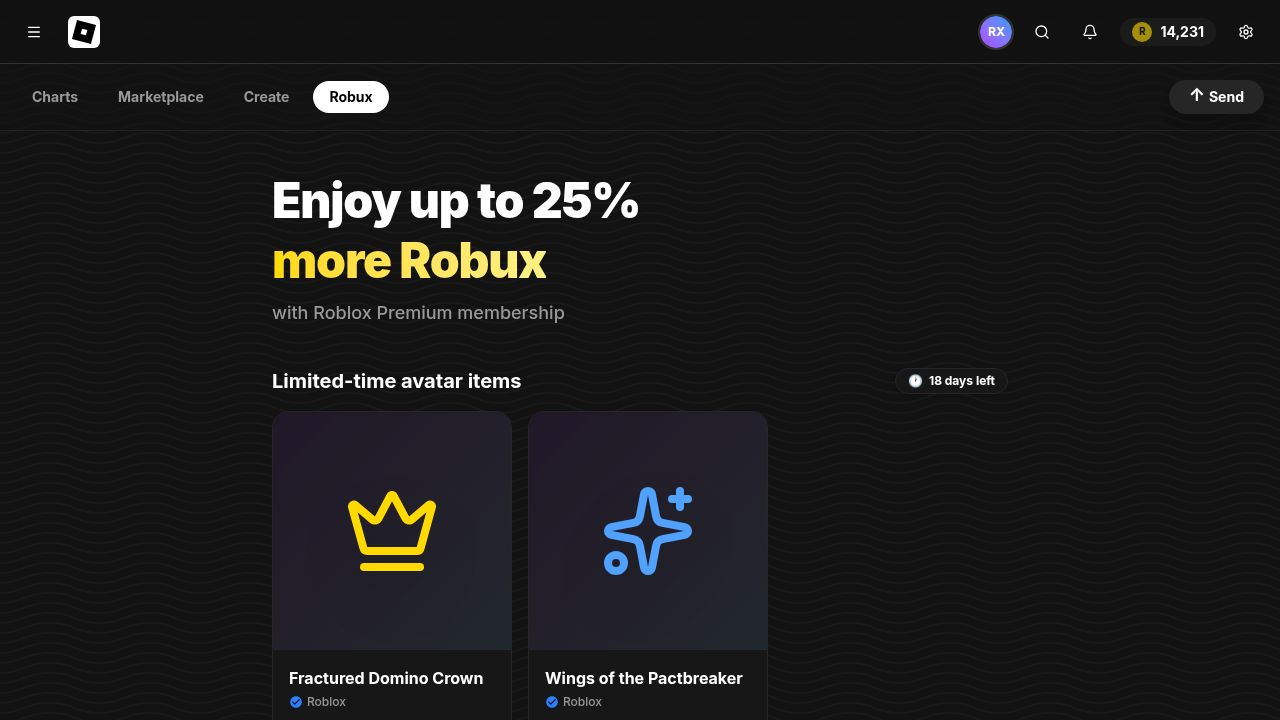
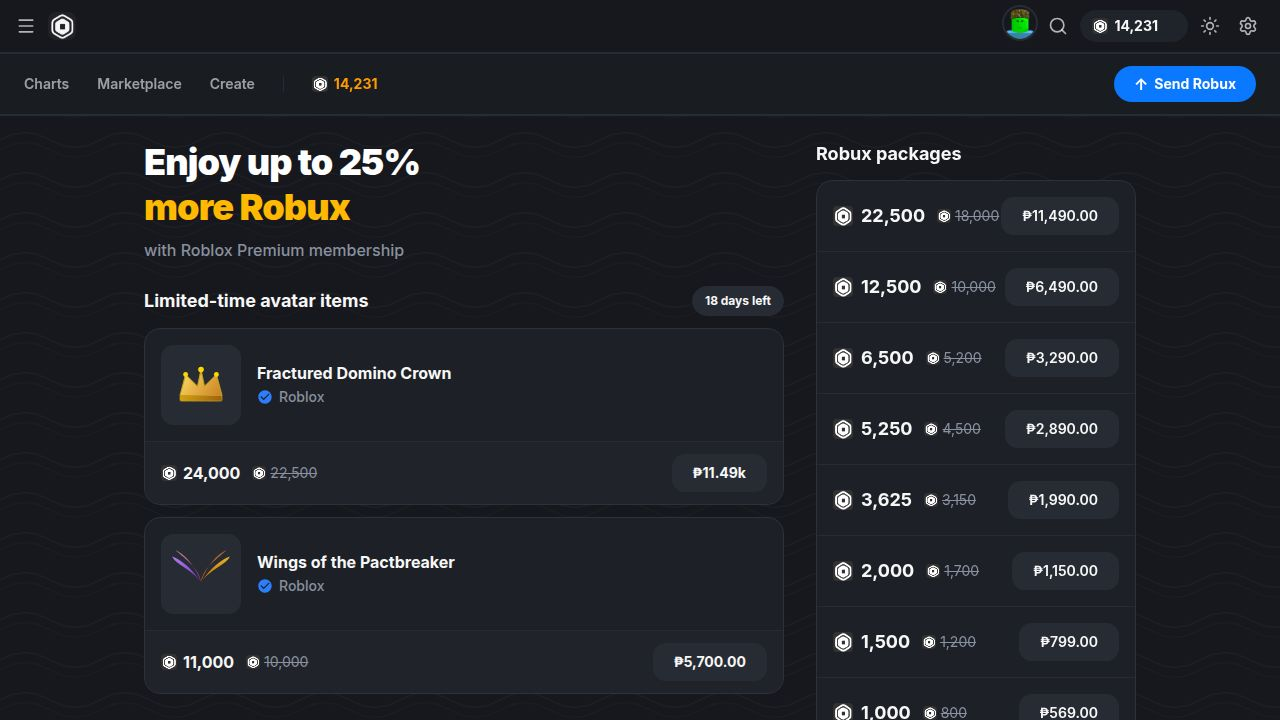
Fix account not found errors and add quick Robux top-up buttons
Implement server-side caching for Roblox user lookups to prevent rate limiting errors and add quick top-up buttons to the home page for faster Robux purchases.

Replit-Commit-Author: Agent
Replit-Commit-Session-Id: 5f962639-26b8-40bb-ab34-73238bc96727
Replit-Commit-Checkpoint-Type: full_checkpoint
Replit-Commit-Event-Id: df88e2de-eefc-4a45-ba17-e978767f4bc2
Replit-Commit-Screenshot-Url: https://storage.googleapis.com/screenshot-production-us-central1/67479d14-2eff-4cb4-adee-8dcc3564527e/5f962639-26b8-40bb-ab34-73238bc96727/lj763AT
Replit-Helium-Checkpoint-Created: true

diff --git a/artifacts/api-server/src/routes/roblox.ts b/artifacts/api-server/src/routes/roblox.ts
@@ -2,6 +2,51 @@ import { Router } from "express";
 
 const router = Router();
 
+interface CachedUser { id: number; name: string; imageUrl: string | null; cachedAt: number }
+const userCache = new Map<string, CachedUser>();
+const CACHE_TTL_MS = 5 * 60 * 1000; // 5 minutes
+
+async function lookupRobloxUser(username: string): Promise<CachedUser | null> {
+  const key = username.toLowerCase();
+  const cached = userCache.get(key);
+  if (cached && Date.now() - cached.cachedAt < CACHE_TTL_MS) return cached;
+
+  const userRes = await fetch("https://users.roblox.com/v1/usernames/users", {
+    method: "POST",
+    headers: {
+      "Content-Type": "application/json",
+      "Accept": "application/json",
+      "User-Agent": "Mozilla/5.0 (compatible; RobloxStore/1.0)",
+    },
+    body: JSON.stringify({ usernames: [username], excludeBannedUsers: false }),
+  });
+
+  if (!userRes.ok) return null;
+
+  const userData = await userRes.json() as { data: { id: number; name: string }[] };
+  const user = userData?.data?.[0];
+  if (!user) return null;
+
+  const thumbRes = await fetch(
+    `https://thumbnails.roblox.com/v1/users/avatar-headshot?userIds=${user.id}&size=150x150&format=Png&isCircular=true`,
+    {
+      headers: {
+        "User-Agent": "Mozilla/5.0 (compatible; RobloxStore/1.0)",
+      },
+    }
+  );
+
+  let imageUrl: string | null = null;
+  if (thumbRes.ok) {
+    const thumbData = await thumbRes.json() as { data: { imageUrl: string }[] };
+    imageUrl = thumbData?.data?.[0]?.imageUrl ?? null;
+  }
+
+  const result: CachedUser = { id: user.id, name: user.name, imageUrl, cachedAt: Date.now() };
+  userCache.set(key, result);
+  return result;
+}
+
 router.get("/roblox/avatar", async (req, res) => {
   const username = String(req.query.username ?? "").trim();
   if (!username) {
@@ -10,33 +55,12 @@ router.get("/roblox/avatar", async (req, res) => {
   }
 
   try {
-    const userRes = await fetch("https://users.roblox.com/v1/usernames/users", {
-      method: "POST",
-      headers: { "Content-Type": "application/json" },
-      body: JSON.stringify({ usernames: [username], excludeBannedUsers: false }),
-    });
-    if (!userRes.ok) {
-      res.status(404).json({ error: "user not found" });
-      return;
-    }
-    const userData = await userRes.json() as { data: { id: number; name: string }[] };
-    const user = userData?.data?.[0];
+    const user = await lookupRobloxUser(username);
     if (!user) {
       res.status(404).json({ error: "user not found" });
       return;
     }
-
-    const thumbRes = await fetch(
-      `https://thumbnails.roblox.com/v1/users/avatar-headshot?userIds=${user.id}&size=150x150&format=Png&isCircular=true`
-    );
-    if (!thumbRes.ok) {
-      res.status(502).json({ error: "thumbnail fetch failed" });
-      return;
-    }
-    const thumbData = await thumbRes.json() as { data: { imageUrl: string }[] };
-    const imageUrl = thumbData?.data?.[0]?.imageUrl ?? null;
-
-    res.json({ id: user.id, name: user.name, imageUrl });
+    res.json({ id: user.id, name: user.name, imageUrl: user.imageUrl });
   } catch (err) {
     res.status(502).json({ error: "upstream error" });
   }

diff --git a/artifacts/roblox-store/src/pages/Home.tsx b/artifacts/roblox-store/src/pages/Home.tsx
@@ -1,7 +1,9 @@
 import { useState } from "react";
+import { Plus } from "lucide-react";
 import Header from "@/components/Header";
 import AvatarItemCard from "@/components/AvatarItemCard";
 import RobuxPackageRow from "@/components/RobuxPackageRow";
+import RobuxIcon from "@/components/RobuxIcon";
 import SendModal from "@/components/SendModal";
 import SettingsDrawer, { type Transaction } from "@/components/SettingsDrawer";
 
@@ -90,6 +92,20 @@ export default function Home() {
             <p className="text-base font-medium text-muted-foreground mt-2">
               with Roblox Premium membership
             </p>
+            <div className="flex items-center gap-2 mt-4 flex-wrap">
+              <span className="text-muted-foreground text-xs font-semibold uppercase tracking-wide mr-1">Quick top-up</span>
+              {[1000, 5000, 10000].map(amt => (
+                <button
+                  key={amt}
+                  onClick={() => setRobuxBalance(prev => prev + amt)}
+                  className="flex items-center gap-1.5 bg-secondary hover:bg-secondary/70 border border-border text-foreground text-sm font-bold px-3 py-2 rounded-xl transition-colors"
+                >
+                  <Plus className="w-3.5 h-3.5 text-emerald-400" />
+                  <RobuxIcon className="w-3.5 h-3.5" />
+                  {amt.toLocaleString()}
+                </button>
+              ))}
+            </div>
           </div>
 
           {/* Limited-time items */}